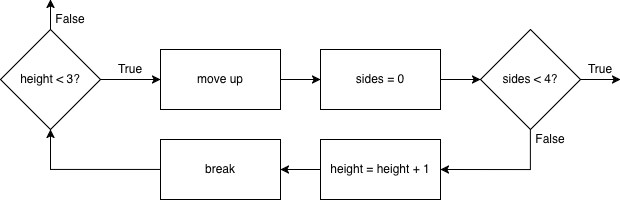
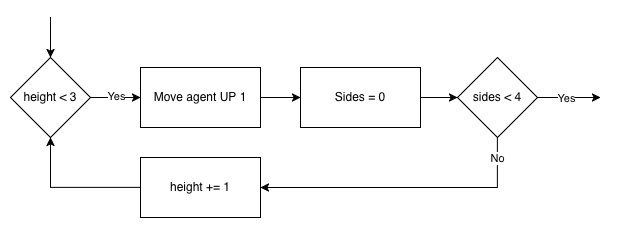
Updated tower builder island 7

diff --git a/tutorials/python-islands/island-7/tower_builder/tower_builder_1.md b/tutorials/python-islands/island-7/tower_builder/tower_builder_1.md
@@ -21,7 +21,6 @@ if (agent_or == SOUTH) {
 if (agent_or == EAST) {
     agent.turnLeft()
 }
-
 ```
 
 ## Introduction @showdialog
@@ -44,8 +43,9 @@ Code the flowchart.
 ```python
 agent.set_item(STONE, 64, 1)
 ```
+
 - Give 64 stone to your agent
-- Give 1 glowstone to your agent
+- Give 64 glowstone to your agent
 
 ## Part 2
 
@@ -67,31 +67,34 @@ Code the flowchart.
 ```
 Within the loop:
 - Move the agent up
-- Set a variable sides to 0
 - Create a new loop
 
 ## Part 4
 
 ![Cover image](https://raw.githubusercontent.com/CausewayDigital/Minecraft-EE-MakeCode/refs/heads/master/tutorials/python-islands/island-7/tower_builder/images/flowchart-landscape_4.png)
 
-Code the flowchart.
+Code the flowchart (within the loop you just created).
 
 ```
 ```
 Within the new loop:
 - Place stone bellow the agent
 - Move the agent forward
+- Place stone bellow the agent
+- Move the agent forward
+- Turn the agent right
 
 ## Part 5
 
 ![Cover image](https://raw.githubusercontent.com/CausewayDigital/Minecraft-EE-MakeCode/refs/heads/master/tutorials/python-islands/island-7/tower_builder/images/flowchart-landscape_5.png)
 
-Code the flowchart.
+Code the flowchart (After all the loops).
 
 ```
 ```
-- Give 64 stone to your agent
-- Give 1 glowstone to your agent
+
+- Move your agent to the right
+- Place glowstone forwards
 
 ```ghost
 agent.set_item(STONE, 64, 1)
@@ -110,5 +113,4 @@ for i in range(3):
 agent.set_slot(2)
 agent.move(RIGHT, 1)
 agent.place(FORWARD)
-
 ```
